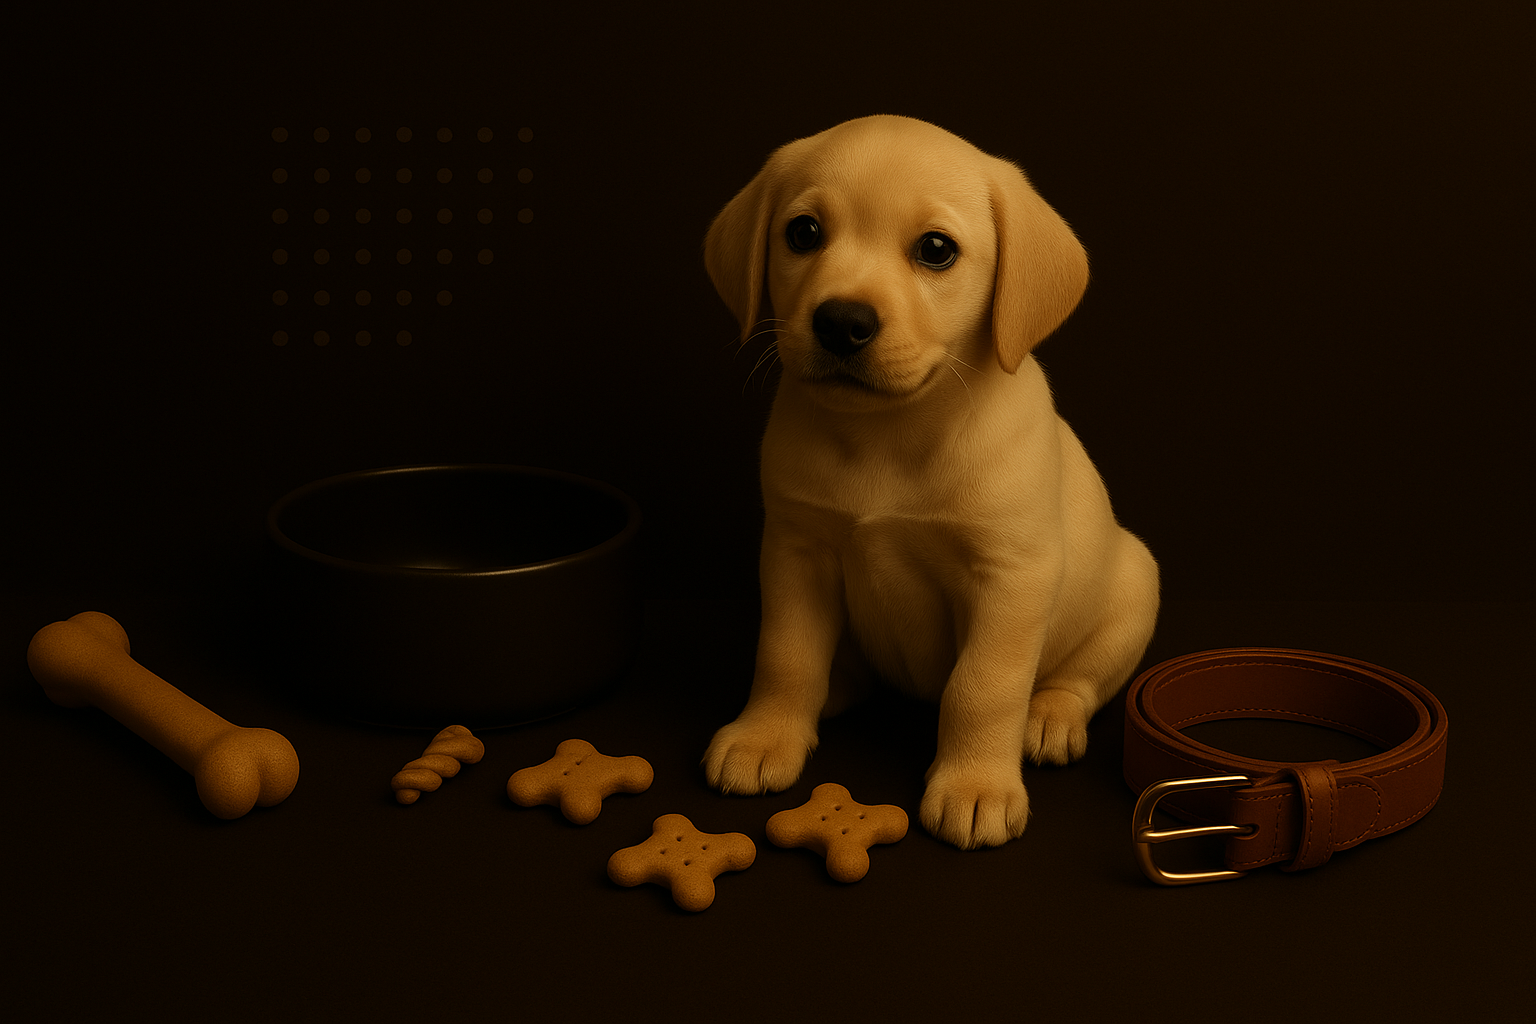
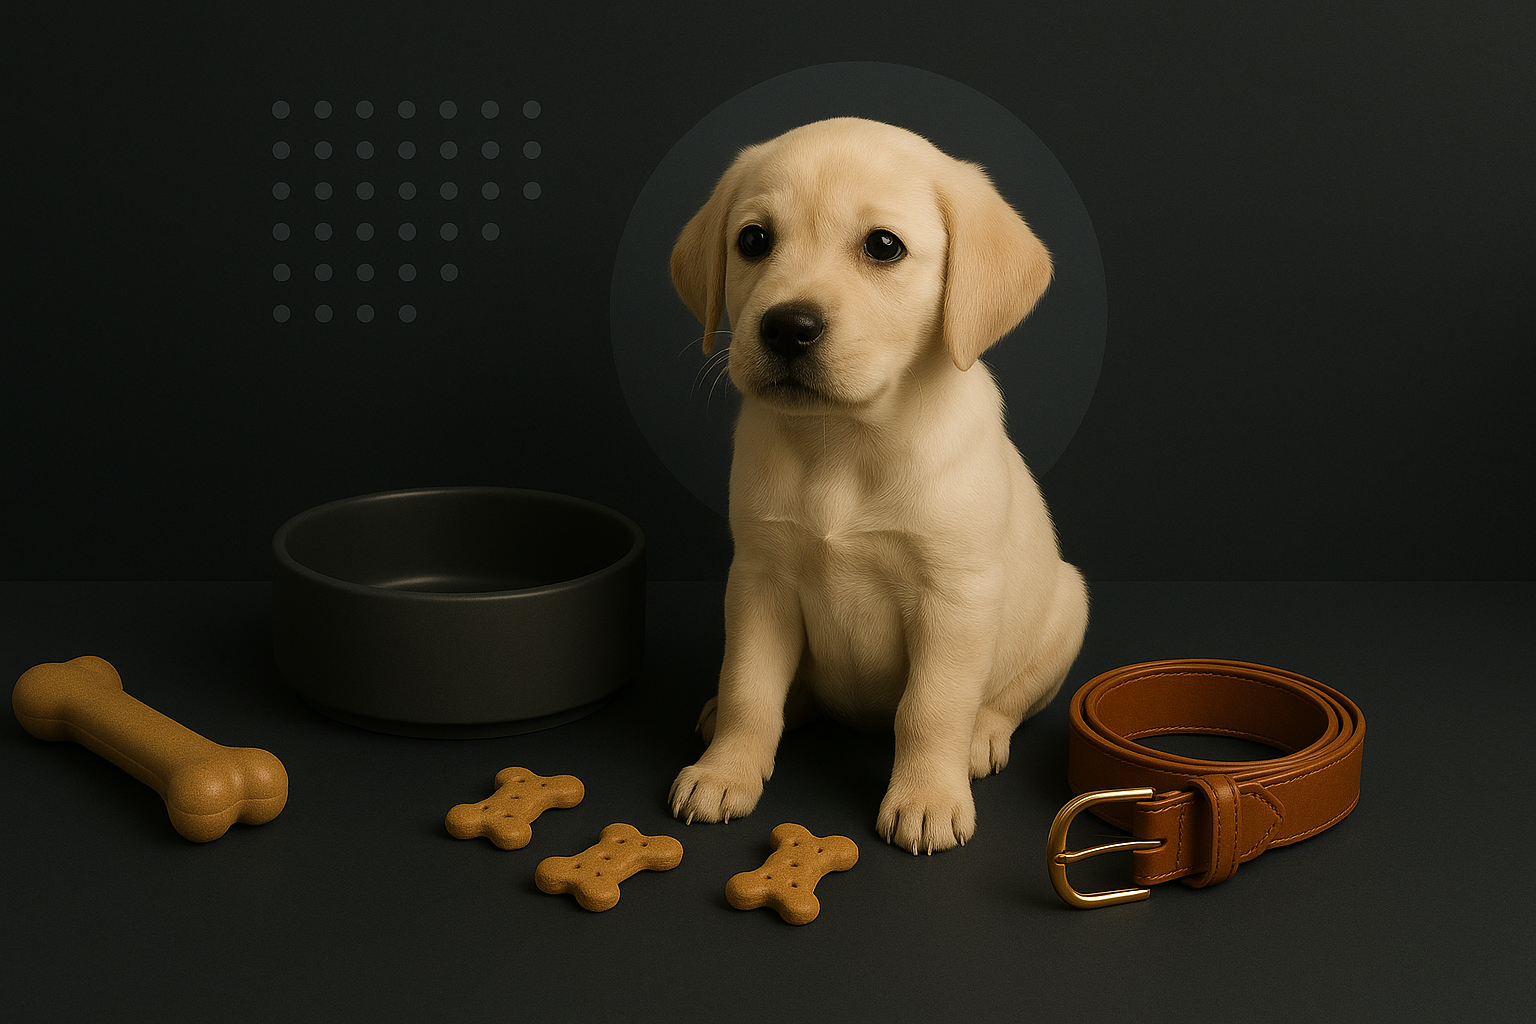
홈화면 히어로섹션 추가 및 다크모드 수정

diff --git a/shop/src/main/resources/static/js/main.js b/shop/src/main/resources/static/js/main.js
@@ -51,8 +51,8 @@
     });
 
     /*------------------
-		Navigation
-	--------------------*/
+        Navigation
+    --------------------*/
     $(".mobile-menu").slicknav({
         prependTo: '#mobile-menu-wrap',
         allowParentLinks: true
@@ -88,13 +88,14 @@
         margin: 0,
         items: 1,
         dots: false,
-        nav: true,
+        nav: false,
         navText: ["<span class='arrow_left'><span/>", "<span class='arrow_right'><span/>"],
         animateOut: 'fadeOut',
         animateIn: 'fadeIn',
         smartSpeed: 1200,
         autoHeight: false,
-        autoplay: false
+        autoplay: true,         // 자동 넘김 기능 활성화
+        autoplayTimeout: 5000,  // 자동 넘김 시간 간격
     });
 
     /*--------------------------
@@ -103,16 +104,16 @@
     $("select").niceSelect();
 
     /*-------------------
-		Radio Btn
-	--------------------- */
+        Radio Btn
+    --------------------- */
     $(".product__color__select label, .shop__sidebar__size label, .product__details__option__size label").on('click', function () {
         $(".product__color__select label, .shop__sidebar__size label, .product__details__option__size label").removeClass('active');
         $(this).addClass('active');
     });
 
     /*-------------------
-		Scroll
-	--------------------- */
+        Scroll
+    --------------------- */
     $(".nice-scroll").niceScroll({
         cursorcolor: "#0d0d0d",
         cursorwidth: "5px",
@@ -131,7 +132,7 @@
     var mm = String(today.getMonth() + 1).padStart(2, '0'); //January is 0!
     var yyyy = today.getFullYear();
 
-    if(mm == 12) {
+    if (mm == 12) {
         mm = '01';
         yyyy = yyyy + 1;
     } else {
@@ -151,15 +152,15 @@
     });
 
     /*------------------
-		Magnific
-	--------------------*/
+        Magnific
+    --------------------*/
     $('.video-popup').magnificPopup({
         type: 'iframe'
     });
 
     /*-------------------
-		Quantity change
-	--------------------- */
+        Quantity change
+    --------------------- */
     var proQty = $('.pro-qty');
     proQty.prepend('<span class="fa fa-angle-up dec qtybtn"></span>');
     proQty.append('<span class="fa fa-angle-down inc qtybtn"></span>');
